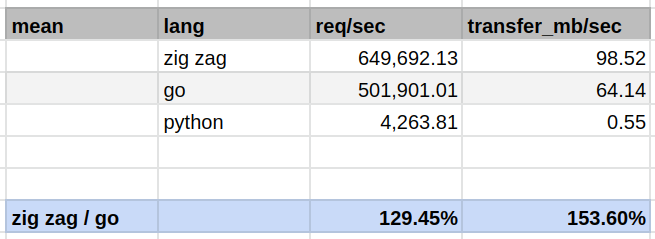
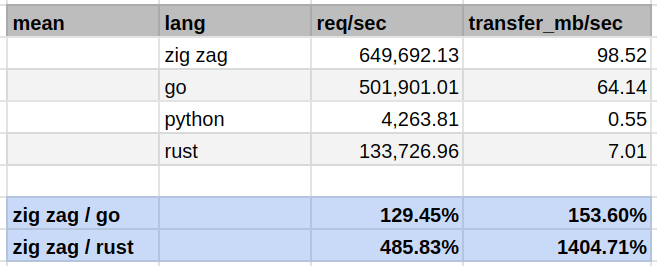
updated wrk stats with rust results

diff --git a/blazingly-fast.md b/blazingly-fast.md
@@ -14,6 +14,18 @@ You can check out the scripts I used for the tests in [./wrk](wrk/).
 You can see the verbatim output of `wrk`, and some infos about the test machine
 below the code snippets.
 
+**Update**: I was intrigued comparing to a basic rust HTTP server.
+Unfortunately, knowing nothing at all about rust, I couldn't find one and hence
+tried to go for the one in [The Rust Programming
+Language](https://doc.rust-lang.org/book/ch20-00-final-project-a-web-server.html).
+Wanting it to be of a somewhat fair comparison, I opted for the multi-threaded
+example. It didn't work out-of-the-box, but I got it to work and changed it to
+not read files but outputting a static text just like in the other examples.
+**maybe someone with rust experience** can have a look at my
+[wrk/rust/hello](wrk/rust/hello) code and tell me why it's surprisingly slow, as
+I expected it to be faster than the basic GO example. I'll enable the
+GitHub discussions for this matter. My suspicion is the use of muteces.
+
 ![](wrk_tables.png)
 
 ### requests / sec
@@ -292,6 +304,71 @@ Running 10s test @ http://127.0.0.1:8080
 Requests/sec:   5004.06
 Transfer/sec:    649.95KB
 (base) rs@ryzen:~/code/github.com/renerocksai/zap$ 
+
+
+
+(base) rs@ryzen:~/code/github.com/renerocksai/zap$ ./wrk/measure.sh rust
+    Finished release [optimized] target(s) in 0.00s
+========================================================================
+                          rust
+========================================================================
+Running 10s test @ http://127.0.0.1:7878
+  4 threads and 400 connections
+  Thread Stats   Avg      Stdev     Max   +/- Stdev
+    Latency     1.20ms    1.38ms 208.35ms   99.75%
+    Req/Sec    34.06k     2.00k   38.86k    75.25%
+  Latency Distribution
+     50%    1.32ms
+     75%    1.63ms
+     90%    1.87ms
+     99%    2.32ms
+  1356449 requests in 10.01s, 71.15MB read
+  Socket errors: connect 0, read 1356427, write 0, timeout 0
+Requests/sec: 135446.00
+Transfer/sec:      7.10MB
+
+
+(base) rs@ryzen:~/code/github.com/renerocksai/zap$ ./wrk/measure.sh rust
+    Finished release [optimized] target(s) in 0.00s
+========================================================================
+                          rust
+========================================================================
+Running 10s test @ http://127.0.0.1:7878
+  4 threads and 400 connections
+  Thread Stats   Avg      Stdev     Max   +/- Stdev
+    Latency     1.21ms  592.89us  10.02ms   63.64%
+    Req/Sec    32.93k     2.91k   37.94k    80.50%
+  Latency Distribution
+     50%    1.31ms
+     75%    1.64ms
+     90%    1.90ms
+     99%    2.48ms
+  1311445 requests in 10.02s, 68.79MB read
+  Socket errors: connect 0, read 1311400, write 0, timeout 0
+Requests/sec: 130904.50
+Transfer/sec:      6.87MB
+
+
+(base) rs@ryzen:~/code/github.com/renerocksai/zap$ ./wrk/measure.sh rust
+    Finished release [optimized] target(s) in 0.00s
+========================================================================
+                          rust
+========================================================================
+Running 10s test @ http://127.0.0.1:7878
+  4 threads and 400 connections
+  Thread Stats   Avg      Stdev     Max   +/- Stdev
+    Latency     1.26ms    2.88ms 211.74ms   99.92%
+    Req/Sec    33.92k     2.04k   38.99k    74.00%
+  Latency Distribution
+     50%    1.34ms
+     75%    1.66ms
+     90%    1.91ms
+     99%    2.38ms
+  1350527 requests in 10.02s, 70.84MB read
+  Socket errors: connect 0, read 1350474, write 0, timeout 0
+Requests/sec: 134830.39
+Transfer/sec:      7.07MB
+
 ```
 
 ## test machine

diff --git a/README.md b/README.md
@@ -49,10 +49,24 @@ But, how fast is it? Being blazingly fast is relative. When compared with a
 simple GO HTTP server, a simple zig zap HTTP server performed really good on my
 machine:
 
+**Update**: I was intrigued comparing to a basic rust HTTP server.
+Unfortunately, knowing nothing at all about rust, I couldn't find one and hence
+tried to go for the one in [The Rust Programming
+Language](https://doc.rust-lang.org/book/ch20-00-final-project-a-web-server.html).
+Wanting it to be of a somewhat fair comparison, I opted for the multi-threaded
+example. It didn't work out-of-the-box, but I got it to work and changed it to
+not read files but outputting a static text just like in the other examples.
+**maybe someone with rust experience** can have a look at my
+[wrk/rust/hello](wrk/rust/hello) code and tell me why it's surprisingly slow, as
+I expected it to be faster than the basic GO example. I'll enable the
+GitHub discussions for this matter. My suspicion is the use of mutexes.
+
 ![](wrk_table_summary.png)
 
 - zig zag was nearly 30% faster than GO
 - zig zag had over 50% more throughput than GO
+- let's better not talk about the rust results. I don't know what causes them.
+  Probably bad mutex performance.
 
 ![](wrk_summary.png)
 
